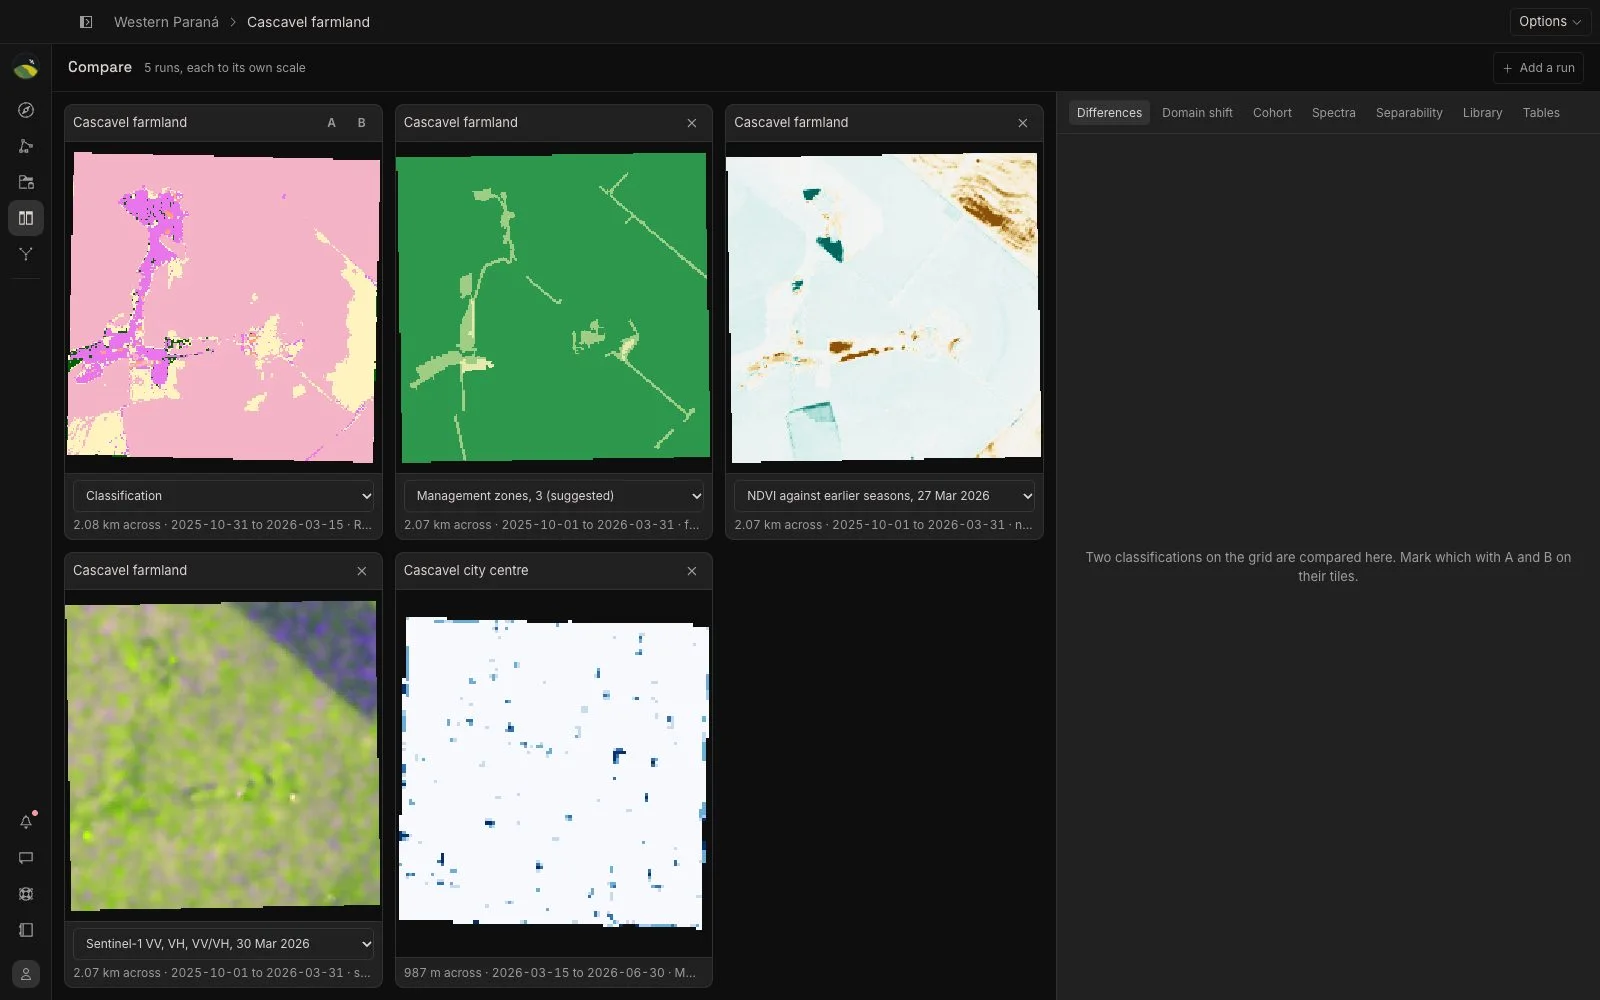
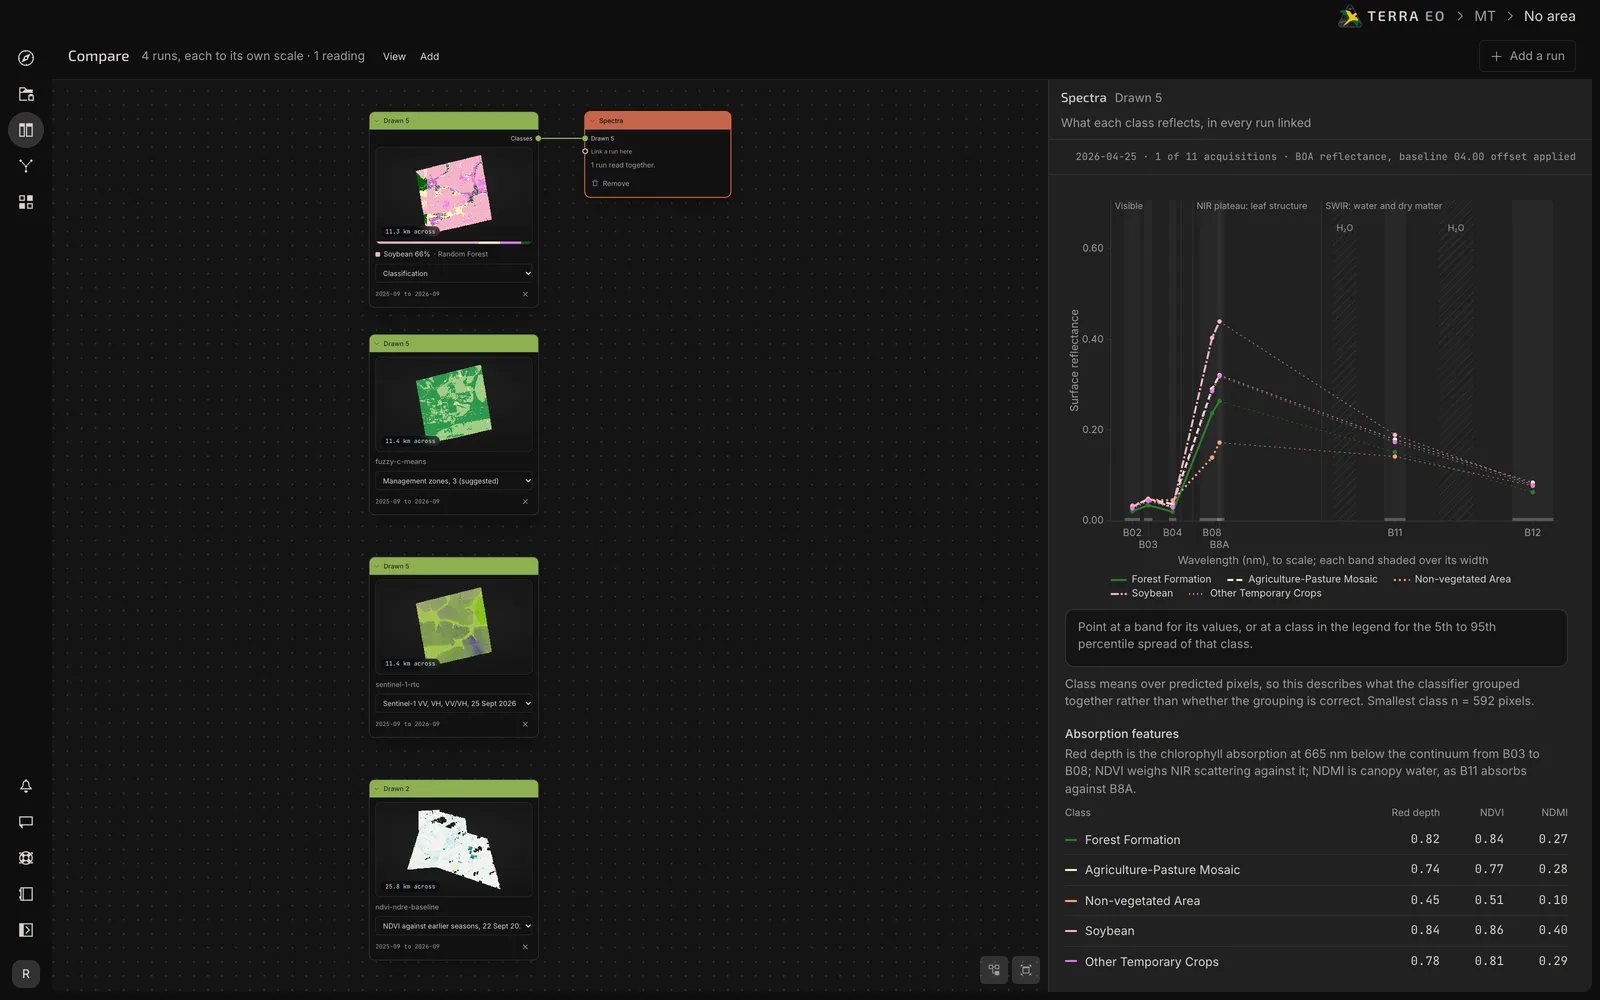
docs(readme): the screenshots show the current interface, and the mineral map is shown on the map
The README's captures were taken before the map became a card in the
window's frame and before Compare became a board; the Compare capture was
still a fixed grid of tiles. The mineral map's capture was older still: the
globe and the Studio, captioned as "the interface before the current one".

The seven captures in docs/img/map are taken again from the application,
at 1600 x 1000 px:
- the classification, now over farmland in Mato Grosso, with its agreement
  with MapBiomas by class;
- Compare as a board of four runs over two areas, with a Spectra reading;
- a demo workflow of three runs through filters, zones, a radar series and
  a PDF report;
- vegetation health, radar and management zones, each with its result
  panel;
- the mineral map near Barcarena, Pará, from 0.4 to 1.3 µm, which replaces
  docs/img/v7/terra-v7-mineral.webp in the README.

The captions and alt texts say what each image now shows, and the
paragraph on Compare describes the board and its readings. They were taken
from a scratch copy of the store with the user's photo, name and PDF
author removed, so no personal data is in the images.

diff --git a/README.md b/README.md
@@ -23,10 +23,10 @@ It is not a general-purpose GIS and does not set out to cover the ground that
 Earth Engine or QGIS already cover.
 
 <p align="center">
-  <img src="docs/img/map/terra-map.webp" alt="A classification raster over farmland near Cascavel on the full-screen map, with the navigation rail on the left and the result panel on the right showing the period, the class areas and the limit on reading them" width="900" />
+  <img src="docs/img/map/terra-map.webp" alt="A classification raster over farmland in Mato Grosso on the map, with the navigation rail on the left and the result panel on the right showing the period read, the class areas and the agreement with MapBiomas by class" width="900" />
 </p>
 
-<p align="center"><em>A classification over farmland near Cascavel: the raster on the ground it was measured on, and its figures beside it with the limit on reading them</em></p>
+<p align="center"><em>A classification over farmland in Mato Grosso: the raster on the ground it was measured on, and beside it the class areas and how far they agree with MapBiomas</em></p>
 
 ## The map, and what is held up in front of it
 
@@ -35,16 +35,18 @@ or taken from IBGE, a product chosen from a list, a period set, and a run starte
 Its result opens over the ground it was measured on, in one panel at a time, with
 the limit on reading it beside the figures.
 
-**Compare** is where runs are set side by side, on a fixed grid. It exists because a
+**Compare** is where runs are set side by side, as cards on a board. It exists because a
 map cannot do this: a map puts things where they are, so two areas hundreds of
-kilometres apart cannot be set beside each other on one. Each tile is drawn to its
-own scale and says how much ground it spans.
+kilometres apart cannot be set beside each other on one. Each run is drawn to its
+own scale and says how much ground it spans, and the readings that compare them
+(differences, domain shift, spectra, separability) are cards linked to the runs they
+read.
 
 <p align="center">
-  <img src="docs/img/map/terra-compare.webp" alt="The Compare screen: a fixed grid with a classification, management zones, vegetation health and radar over one farm and surface water over a city centre, each tile saying how much ground it spans" width="900" />
+  <img src="docs/img/map/terra-compare.webp" alt="The Compare board: a classification, management zones and radar over one area and vegetation health over another, each card saying how much ground it spans, and a Spectra reading linked to the classification, read in full in the panel at the right" width="900" />
 </p>
 
-<p align="center"><em>Compare: four products over one farm and surface water over a city centre, each to its own scale</em></p>
+<p align="center"><em>Compare: four runs over two areas, each to its own scale, and the class spectra of the classification read beside them</em></p>
 
 **Workflows** is the compositor, where the products of several runs are combined. Each run
 offers its outputs as sockets; nodes filter, mask, mix and tabulate them, and
@@ -55,10 +57,10 @@ report node writes up whatever reaches it. Under a field set the same graph is
 evaluated once per field.
 
 <p align="center">
-  <img src="docs/img/map/terra-workflows.webp" alt="The compositor at full screen: a run node feeding a majority filter, a viewer, class areas and a change card" width="900" />
+  <img src="docs/img/map/terra-workflows.webp" alt="The compositor: three runs over one area feeding season dates, a majority filter and a sieve, management zones, a radar series, a viewer, a change card, a mix, class areas and a PDF report node" width="900" />
 </p>
 
-<p align="center"><em>Workflows: a classification through a majority filter, with the raster, the class areas and what the filter changed read as cards</em></p>
+<p align="center"><em>Workflows: a classification through a majority filter and a sieve, with what the filters changed, the season, the zones and the radar series of the same area read as cards and gathered into a report</em></p>
 
 Comparison answers where a classification is wrong
 rather than how much of it is right: the confusion against the reference, the
@@ -146,7 +148,7 @@ compositor the fields of a set are also compared with each other on a date they
 share.
 
 <p align="center">
-  <img src="docs/img/map/terra-health.webp" alt="NDVI departure from earlier seasons drawn over one area on the map, with the NDVI and NDRE figures and the season chart in the result panel" width="900" />
+  <img src="docs/img/map/terra-health.webp" alt="NDVI departure from earlier seasons drawn over one area on the map with its field boundaries, with the NDVI and NDRE figures and the season chart in the result panel" width="900" />
 </p>
 
 <p align="center"><em>Vegetation health over one area: NDVI on one date against the median of the same days in earlier seasons, with the figures and the limit on reading them</em></p>
@@ -202,10 +204,10 @@ the EMIT L2B mineral product compared pixel by pixel. An Earthdata token is
 required.
 
 <p align="center">
-  <img src="docs/img/v7/terra-v7-mineral.webp" alt="EMIT mineral classes for 2.0 to 2.5 micrometres raised over one area on the globe, with the Al-OH and Fe3+ band positions and the mineral figures as compositor cards" width="900" />
+  <img src="docs/img/map/terra-mineral.webp" alt="EMIT mineral classes for 0.4 to 1.3 micrometres over one area on the map, with the coverage, the area of each class and the sections for references, passes, band positions and the comparison with EMIT L2B in the result panel" width="900" />
 </p>
 
-<p align="center"><em>The mineral map of one area: the 2.0-2.5 µm classes on the globe beside the Al-OH and Fe3+ band positions, and the map's figures as compositor cards. Captured in the interface before the current one</em></p>
+<p align="center"><em>The mineral map of one area: the 0.4-1.3 µm classes on the ground, and beside them how much of the area was observed and identified, and the area of each class</em></p>
 
 ### Reports
 
